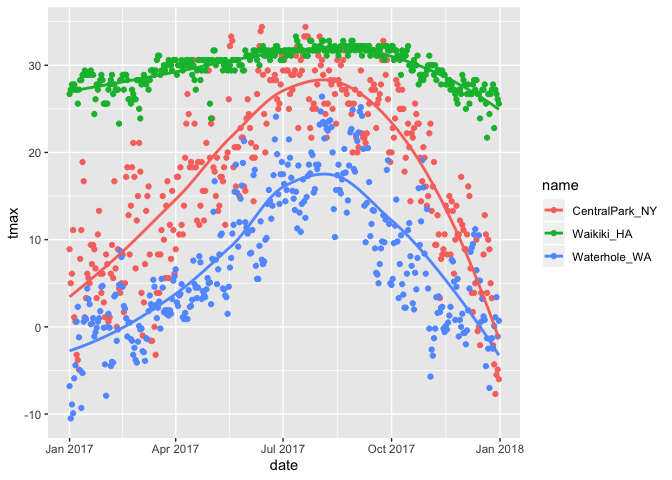
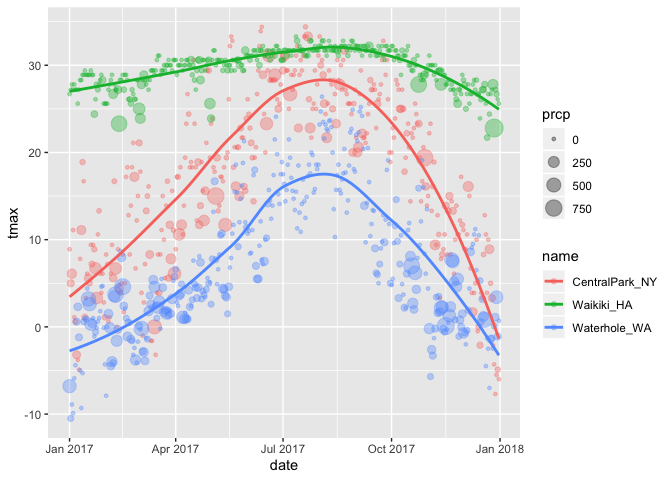
Many more plots

diff --git a/viz_i.md b/viz_i.md
@@ -169,7 +169,7 @@ weather_df %>%
 ``` r
 weather_df %>%
   ggplot(aes(x = date, y = tmax, color = name)) + 
-  geom_point() +
+  geom_point(aes(size = prcp), alpha = .35) +
   geom_smooth(se = FALSE)
 ```
 
